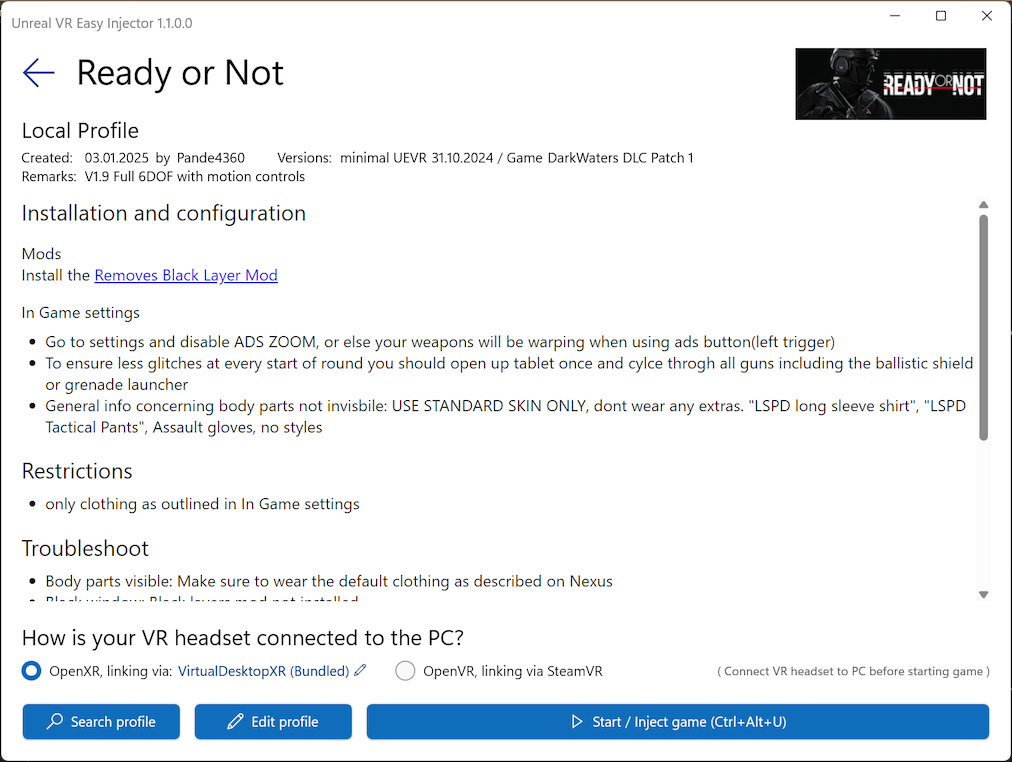
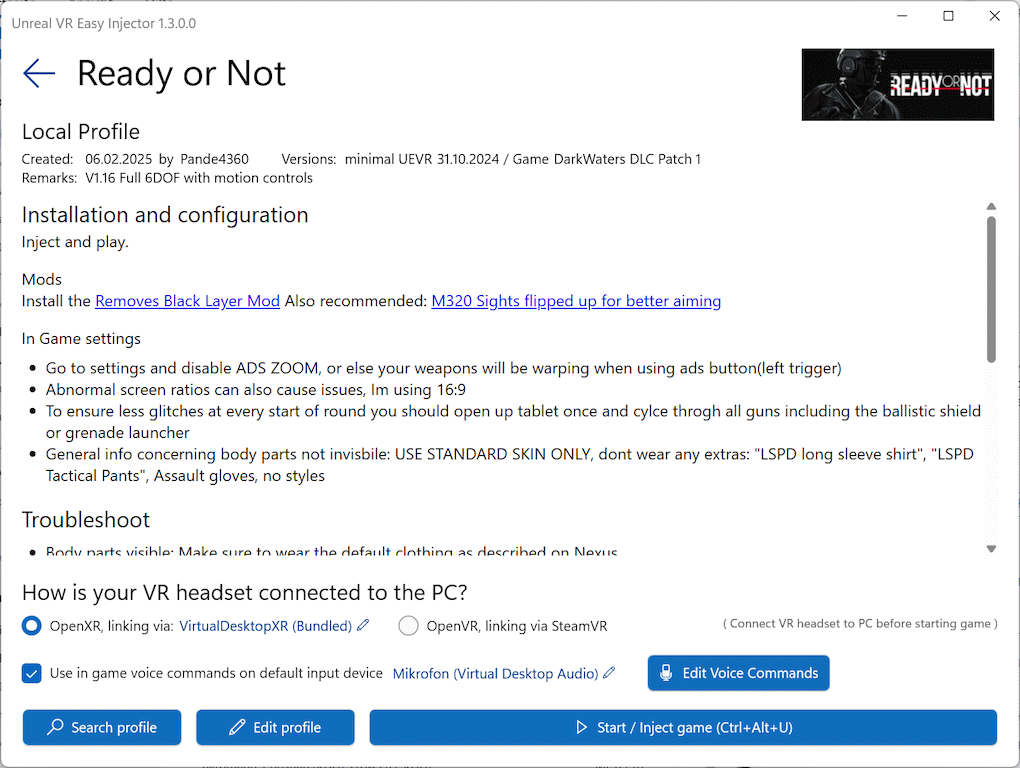
Added voice control

diff --git a/index.md b/index.md
@@ -1,11 +1,11 @@
 Play numerous Unreal Engine games from your Steam or EPIC library in Virtual Reality, such as with Meta Quest headsets.
-This app takes [Praydog’s brilliant (UEVR)](https://github.com/praydog/UEVR) magic back end core, but replaces the UI part with a user-friendly, new one with a profiles database and many new features. UEVR for the masses ;-)  
+This app takes [Praydog’s brilliant (UEVR)](https://github.com/praydog/UEVR) magic module, but replaces the UI part with a user-friendly, new one. It adds features like an online profiles database and voice commands. UEVR for the masses ;-)  
 
 <a href="https://github.com/oduis/UEVRDeluxe/releases" class="download-link">Download latest release</a>
 
 New to UEVR? Read [this step by step beginners tutorial](UEVRTutorial.md)  
 
-## Integration with Steam, EPIC, and GOG, including XR Runtime Switcher
+## Integration with Steam, EPIC, and GOG,
 Guides you through the process, filters installed games that may be using Unreal Engine, and provides warnings for common issues that beginners face:
 
 ![Main screenshot](assets/ScreenMain.png)
@@ -15,17 +15,22 @@ Includes the most commonly used options with descriptions to help you get starte
 
 ![Profile editor](assets/EditProfile.png)
 
-## Easy to find a Profile and start the Game
+## Easy to find a Profile and start the Game, including XR Runtime Switcher
 The new UEVR profile database includes documentation for each profile. No more searching on Discord or outdated profile websites. Inject via hotkey while running your game, without needing to tab around with your headset on.
 
 ![Game screenshot](assets/ScreenGame.png)
 
+## In-game Voice Commands
+Configure easy to use voice commands per game. Little performance overhead on RAM/CPU:
+
+![Game screenshot](assets/EditVoiceCommands.png)
+
 ## Frequently Asked Questions
 ### Does it cost anything?
-No, this is open source and free. However, you are encouraged to support the author of UEVR here: [Praydog's Patreon](https://patreon.com/praydog).
+No, this is free (for non commercial use). However, you are encouraged to support the author of UEVR here: [Praydog's Patreon](https://patreon.com/praydog).
 ### Do I need UEVR Injector installed?
 No, it is not necessary. However, it does no harm to have it installed in parallel, as long as it is not used on the same games.
 ### I have a great profile. How to add it to the UEVR Easy Injector database?
 Follow [this guide](SubmitProfile.md)
-### What UEVR version is it based on?  
-Currently always the current nightly version when published. But you can replace the UEVR DLLs manually with another versions if you like.
+### What UEVR version is it based on?
+Currently always the current nightly version when published. But you can replace the UEVR DLLs manually with another versions if you like. Just replace the DLLs in the "UEVR" subfolder below the folder where UEVR Easy Injector is installed with the DLLs of the nightly UEVR.
